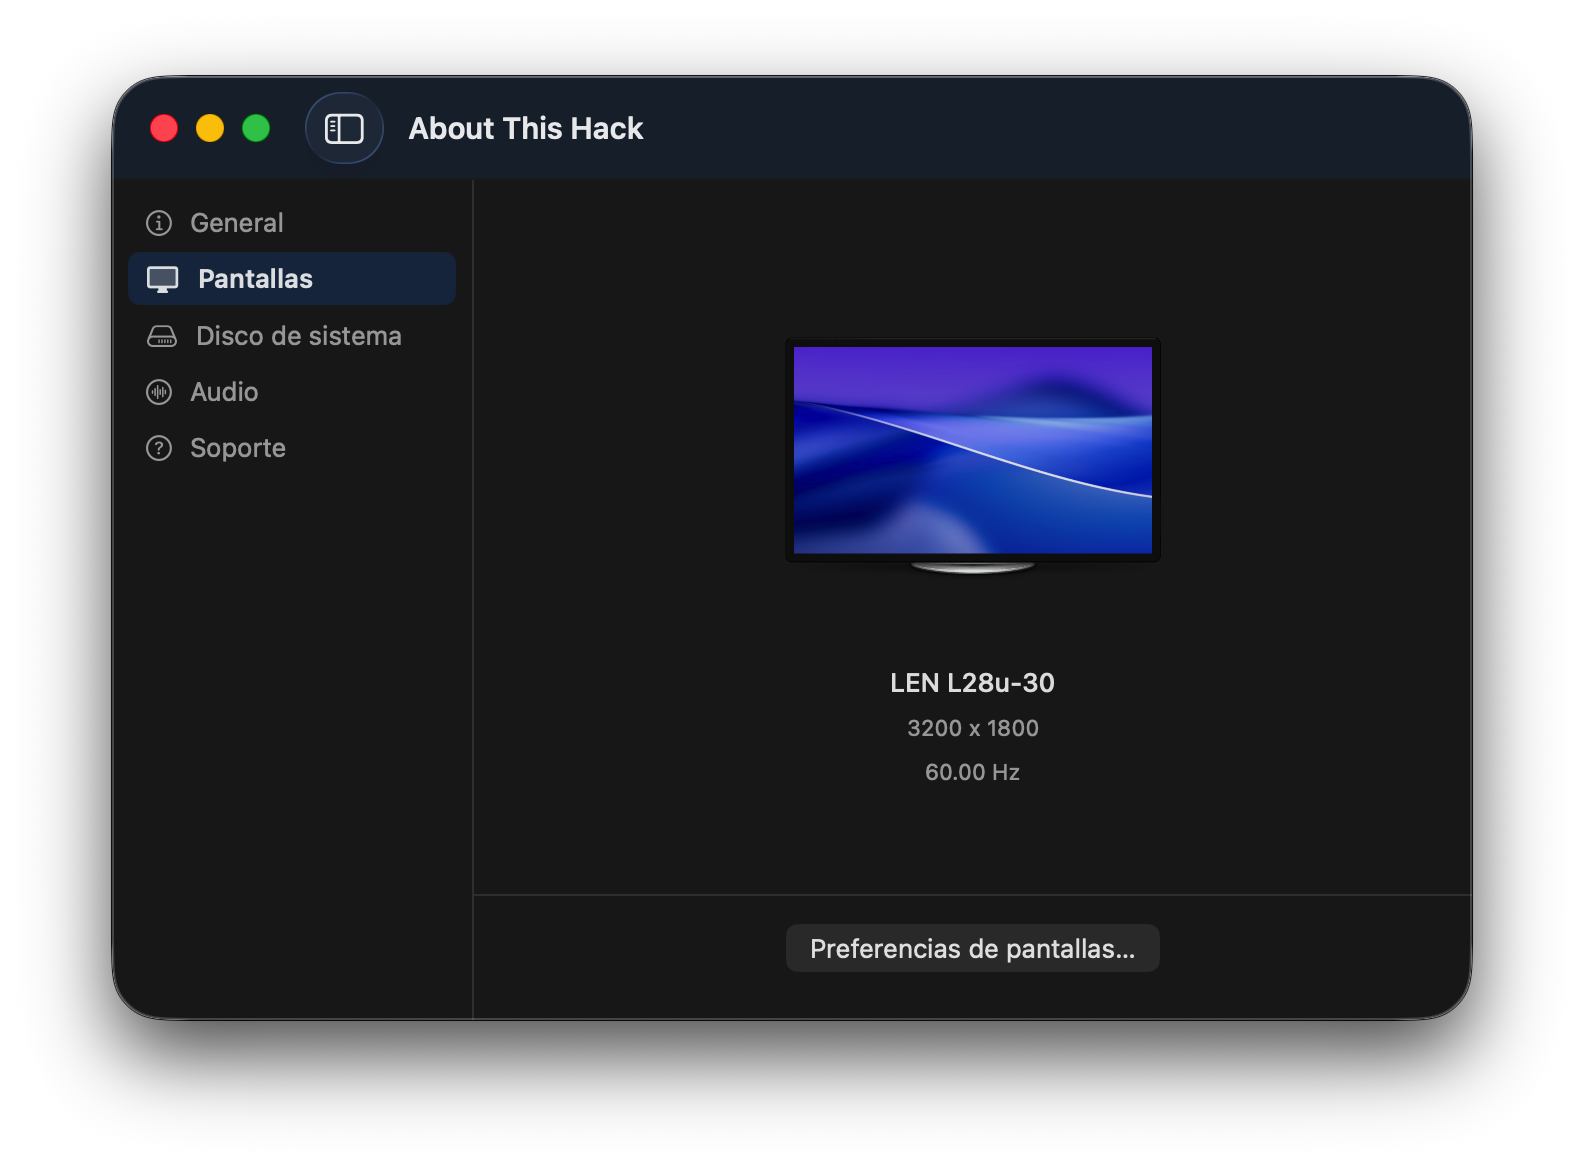
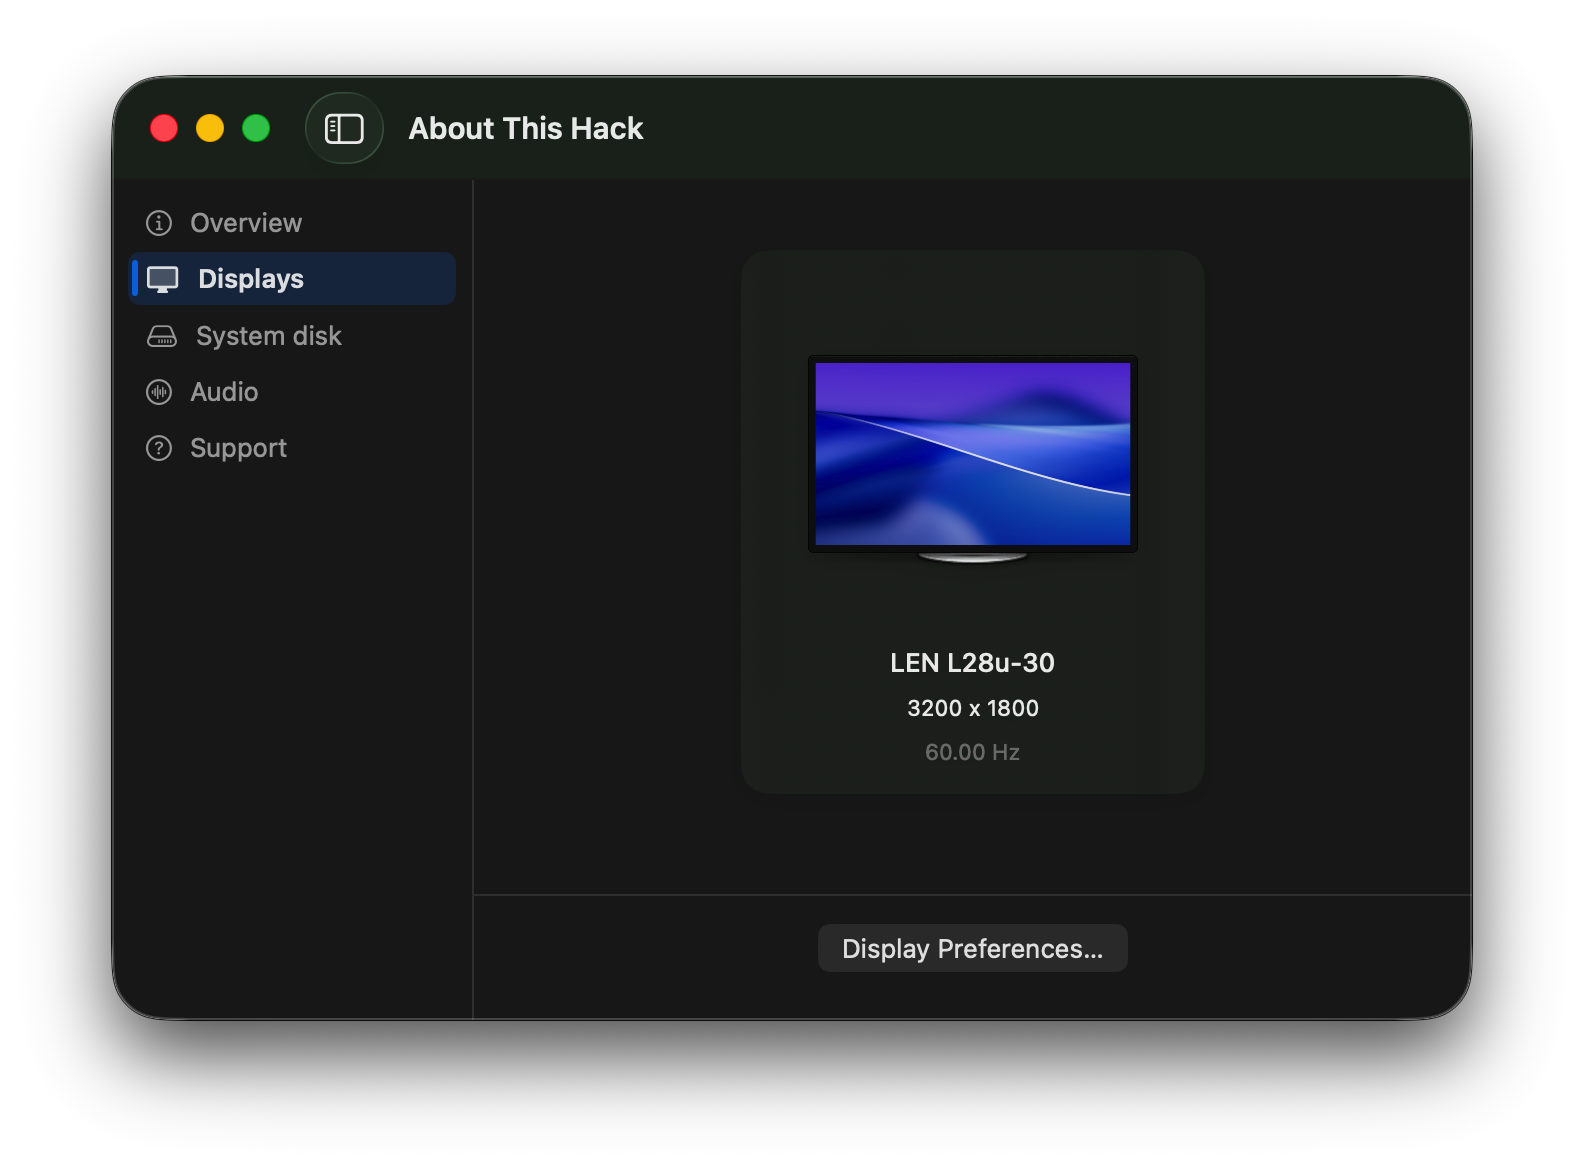
Switch Sparkle feed and refresh README assets
- Pointed `SUFeedURL` to the new `appcast-6.xml` feed
- Cleaned Xcode project signing settings by removing redundant macOS SDK-specific `CODE_SIGN_IDENTITY` overrides
- Updated README visuals and docs, refreshing several screenshots.

diff --git a/README.md b/README.md
@@ -80,7 +80,7 @@ The Audio tab is displayed in these situations:
 
 | |
 | --- |
-| ![Overview](Images/Audio-applealc.png) | 
+| ![Overview](Images/Audio.png) | 
 
 
 **Note**: `getdump` is a tool available in the VoodooHDA repository. The download link is usually found in the resources section of each VoodooHDA release. The latest version is available at this [link](https://github.com/CloverHackyColor/VoodooHDA/releases/download/Release312/getdump.zip). VoodooHDA users must have `getdump` installed to get the audio tab. Simply copy the tool to `/usr/local/bin` and that's all.
@@ -113,6 +113,15 @@ The custom logo image is saved in the path `~/Library/Application Support/com.0x
 | |
 | --- |
 | ![Overview](Images/Custom-logo.png) | 
+
+## Languages
+
+- Language system: English (`en`), Spanish (`es`), German (`de`), French (`fr`), Italian (`it`)
+- Language selector.
+
+| |
+| --- |
+| ![Overview](Images/Languages.png) | 
 
 ## Getting Started
 
